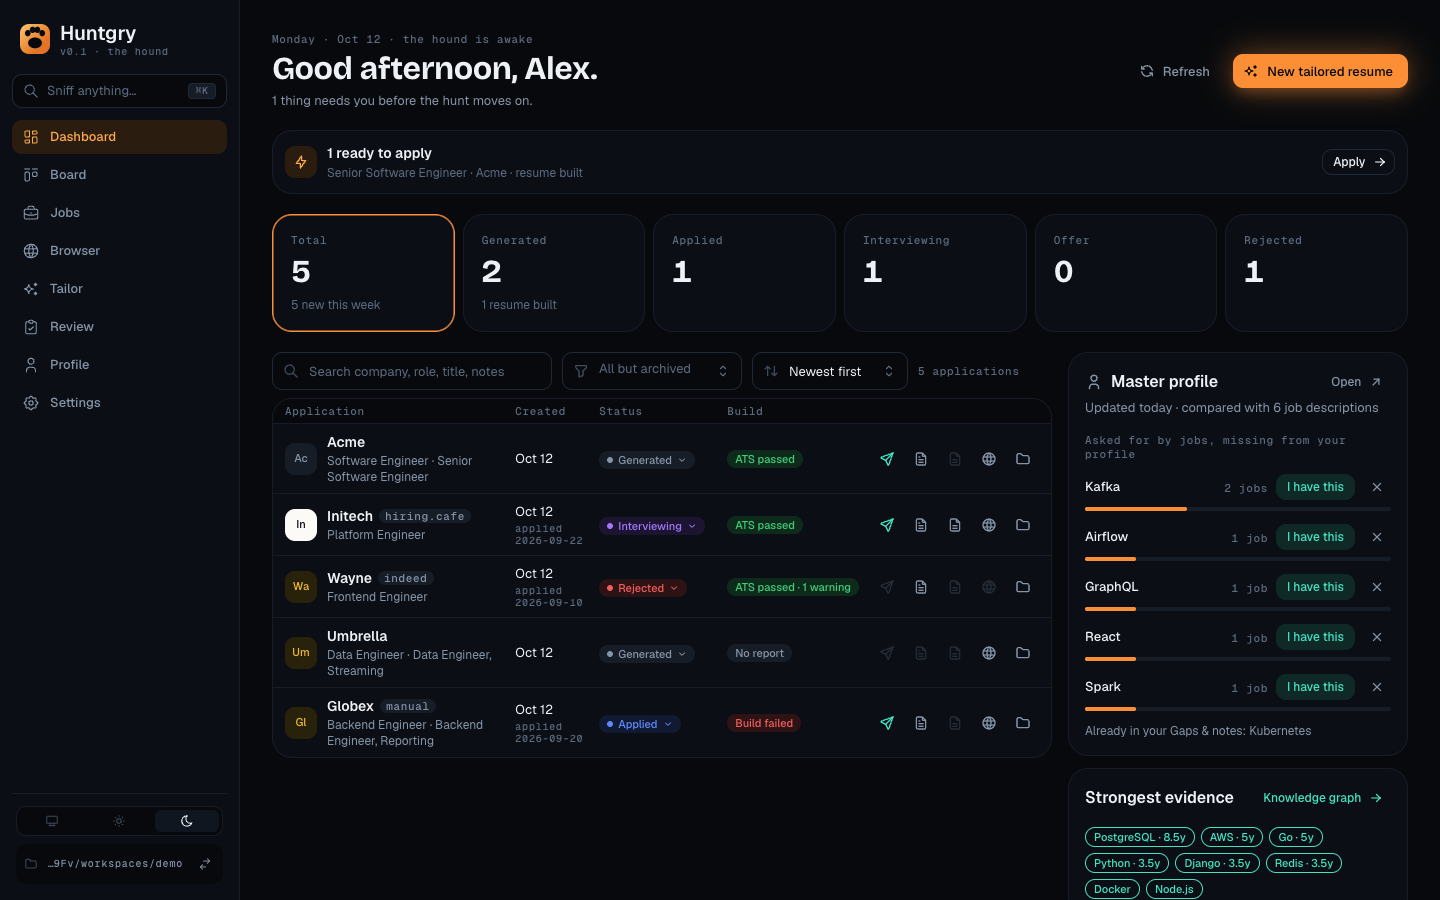
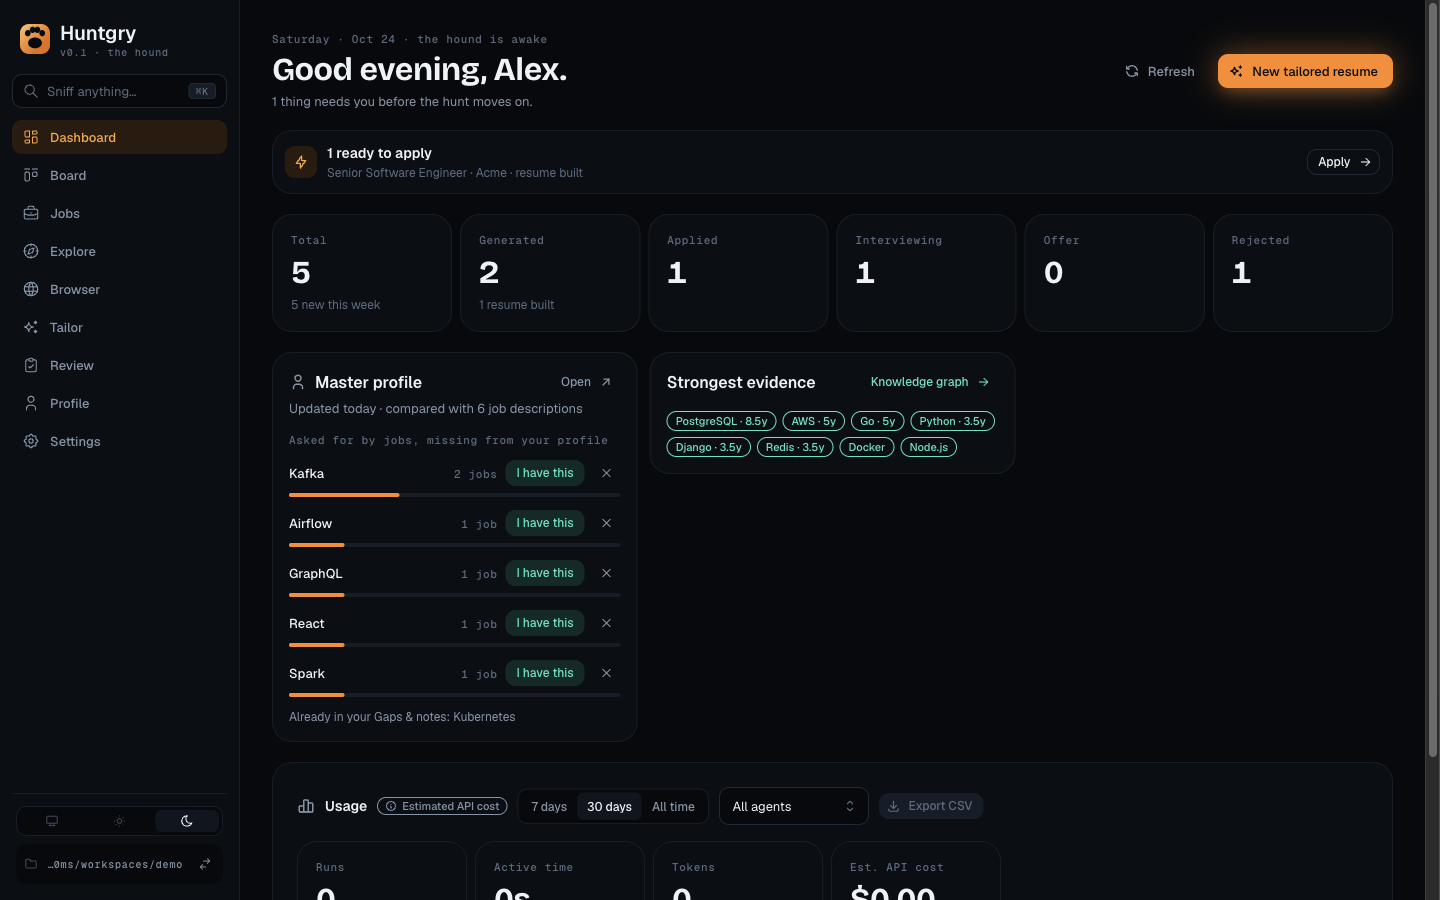
docs(board): describe the Board taking over from the Dashboard table
Adds docs/changes/161-board-replaces-dashboard-list.md: the inventory of
the table's features and where each lives now, a Mermaid map of those
places, the decisions (scroll to a column rather than hide the others, show
older archived cards from buildBoard, no sort), how to test and follow-ups,
with before/after screenshots. The README's Board, Browser, Applying and
Workspace sections, the e2e guide's page objects and the #9, #109 and #160
change notes now point at the Board; the README's Dashboard screenshot is
regenerated without the table.

Refs #161

diff --git a/docs/changes/161-board-replaces-dashboard-list.md b/docs/changes/161-board-replaces-dashboard-list.md
@@ -1,0 +1,139 @@
+# #161 — The Board takes over from the Dashboard's applications table
+
+Issue: [silentashish/huntgry#161](https://github.com/silentashish/huntgry/issues/161) · Epic #156 · Follows #160.
+
+## Context & problem
+
+The Dashboard (home page) listed every application in a table ("5 applications", or "68 of 78"
+in a busy workspace) with a search, a status filter, a sort and five icon actions per row. The
+Board (#85, #160) shows the same applications as cards, by stage, with its own search. That meant
+two places to browse applications, and the home page grew with every application. The Dashboard
+should be a summary: what needs the user, the counts, the last pipeline, usage and profile
+insights. The Board is where applications are browsed.
+
+Nothing the table did could be lost on the way, so the first step was an inventory.
+
+| Table feature | Where it lives now |
+| --- | --- |
+| Apply (send icon) | **Apply** on a Ready to apply card; **Apply in browser** in the application drawer |
+| Open resume.pdf / cover.pdf | **Resume** / **Cover letter** in the drawer (shown when the file exists) |
+| Open the posting | **Posting** in the drawer, which opens the in-app Browser |
+| Show in Finder | The folder button in the drawer |
+| Status dropdown | **Status** in the drawer; the card's **Move to** menu; dragging the card |
+| Build badge → build report, review state | Build and review pills on the card (detail on hover); the full build result, review state and **Open in Review** in the drawer |
+| Apply blocked, with the reason | No Apply on the card; the drawer's disabled **Apply in browser** gives the reason on hover |
+| Search (company, role, title, job id, notes) | The Board's search box (#160 already searched the same fields) |
+| Status filter | The Board's columns; a stat tile scrolls to its column |
+| Archived filter (every archived application) | **Show N older** in the Archived column (new) |
+| Sort (newest, oldest, company) | Not carried over: cards are ordered by their last change, in week groups (#160) |
+| Click a row → drawer | Click a card → the same `ApplicationDrawer` |
+
+Every action already existed in the drawer the Board opens (the Board has reused the Dashboard's
+drawer since #85). Three things were missing: archived applications older than a week (the Board drops
+them after 7 days, the table's Archived filter listed them all), a way for other pages to link
+into the Board, and somewhere for the stat tiles to go.
+
+| Before | After |
+| --- | --- |
+| ![Dashboard before: the stat tiles, then the applications table with search, status filter and sort](assets/161-dashboard-before.png) | ![Dashboard after: the stat tiles, then the profile and evidence cards and usage](assets/161-dashboard-after.png) |
+
+| A stat tile opens the Board on its column | The application drawer from a card |
+| --- | --- |
+| ![The Board after clicking Applied: the Applied column scrolled into view with an Ember ring](assets/161-board-applied-tile.png) | ![The application drawer with Apply in browser, Resume, Cover letter, Posting and Show in Finder](assets/161-board-drawer.png) |
+
+## What changed and why
+
+- **Dashboard** (`src/renderer/src/pages/dashboard/index.tsx`): the table, its toolbar (search,
+  status multi-select, sort, count) and the drawer are gone. The stat tiles stay and open the Board:
+  Applied, Interviewing, Offer and Rejected on their column, Generated on Ready to apply (what is
+  left to do with a generated result), Total on the whole Board. **Apply** in "Needs you" opens the
+  one ready result's drawer on the Board, or the Board's Ready to apply when there are several. The
+  last pipeline, profile insights and strongest evidence cards share one row under the tiles. The
+  "scan stopped early" warning stays on the Dashboard.
+- **Board links** (`navigation.ts`, `pages/board/index.tsx`): the `board` page takes
+  `{ column?, applicationId? }`. `applicationId` opens that application's drawer; `column` scrolls
+  the column into view and marks it with an Ember ring that fades (a steady ring with reduced
+  motion). The column's `<section>` carries `data-column` and `data-focus`.
+- **Archived** (`src/shared/board.ts`): `buildBoard` takes `keepArchived`. The Archived column's
+  note gets **Show N older** (and **Only the last 7 days** to go back), and Archived stays a full
+  column, not a rail, while it has older cards to offer.
+- **⌘K** (`components/palette/search.ts`): an application found in the palette opens in its drawer
+  on the Board (one waiting for review still opens on Review). It used to open the resume, or the
+  folder. The "applications" keyword finds the Board, no longer the Dashboard.
+- **KpiTile**: a clickable tile without `selected` is a plain button, not a toggle with
+  `aria-pressed`. The tiles are links now, not filters.
+- **Removed**: `ApplicationsTable.tsx` (and its `StatusMenu`), `filter.ts` and `filter.test.ts`,
+  and the table's CSS. `isReadyToApply` and `countByStatus` moved to `summary.ts`, which is all that
+  still used them; `readyToApply` keeps the newest-first order the table's filter gave it.
+- **Board cards** carry `data-kind` (`job`, `queue`, `application`) so tests can tell an
+  application from a saved job of the same company.
+
+## How it fits together
+
+Where each former table action lives now:
+
+```mermaid
+flowchart LR
+  subgraph Dashboard
+    T[Stat tiles] -->|column| B
+    N[Needs you: Apply] -->|one: applicationId / several: column ready| B
+  end
+  K[⌘K application] -->|applicationId| B
+  B[Board] --> S[Search box: company, role, title, job id, notes]
+  B --> AR[Archived: Show N older]
+  B --> C[Application card]
+  C --> P[Build and review pills]
+  C --> AP[Apply, on Ready to apply]
+  C --> M[Move to menu, drag: status]
+  C -->|click| D[Application drawer]
+  D --> D1[Apply in browser, or the reason it is blocked]
+  D --> D2[Resume / Cover letter PDFs]
+  D --> D3[Posting: in-app Browser]
+  D --> D4[Show in Finder]
+  D --> D5[Status dropdown, Applied on, notes, posting URL]
+  D --> D6[Build result, review state, Open in Review]
+```
+
+## Decisions and alternatives
+
+- **Scroll to the column, do not filter the others away.** "Open the Board filtered" could have
+  meant hiding every other column. The Board's columns already are the status filter; hiding the
+  rest would turn them into rails reading 0, which looks like data loss, and would need a filter
+  chip to undo. Scrolling to the column and marking it shows the same cards and keeps the context.
+  Total opens the whole Board, where this week's group is already open; "5 new this week" is
+  exactly what that shows.
+- **Show older archived cards in the column, not as a filter field.** `filterBoard` narrows the
+  cards a built board has, but cards older than a week are not on the board at all, so the switch
+  goes to `buildBoard` (`keepArchived`) and is page state next to the filter. It is not cleared by
+  the filter's **Clear**, as it is not a narrowing.
+- **No sort control.** The Board orders cards by their last change inside week groups (#160);
+  sorting by company would fight the grouping. Search covers finding a company.
+- **The drawer stays in `pages/dashboard/`.** Only the Board uses it now, but moving it with its
+  badges and its CSS would add a large rename to this change. Left as a follow-up.
+- **⌘K opens the drawer, not the resume.** An application's place is now its card; the resume is
+  one click away in the drawer, and the palette still offers "Open the resume" as an action.
+
+## How to test
+
+- Unit: `npx vitest run src/shared/board.test.ts src/renderer/src/pages/dashboard src/renderer/src/components/palette src/renderer/src/components/ui`.
+  `ApplicationDrawer.dom.test.tsx` covers each former row action in the drawer: Apply, resume and
+  cover letter, the posting, Show in Finder, the status dropdown, the build result, the review state
+  and Open in Review, and the missing-file case. `summary.test.ts` covers the tile → column map, the
+  Needs you link and the counts; `board.test.ts` covers `keepArchived`; `search.test.ts` the
+  palette's Board entries; `ui.test.tsx` the non-toggle tile.
+- e2e: `npm run build && npx playwright test -c e2e/playwright.config.ts e2e/tests/dashboard.spec.ts e2e/tests/board.spec.ts e2e/tests/shell.spec.ts e2e/tests/review-gate.spec.ts e2e/tests/apply.spec.ts e2e/tests/apply-answers.spec.ts e2e/tests/apply-ashby.spec.ts e2e/tests/apply-generated.spec.ts e2e/tests/apply-workday.spec.ts e2e/tests/insights.spec.ts`.
+  `dashboard.spec.ts` checks that no table, search, filter or sort is left, each tile's column and
+  Ready to apply → drawer. `board.spec.ts` has a new `applications on the board (#161)` block:
+  search by company, role, title and notes; resume, cover letter and folder (with `shell.openPath`
+  stubbed) and the posting; the status dropdown and its `appliedAt` stamp; build and review pills,
+  the Apply reason and Open in Review; the posting URL edit; and Show older in Archived. The apply
+  specs and review-gate start Apply from the Board's drawer; shell.spec opens an application from ⌘K.
+- By hand: on the Dashboard click **Applied**: the Board opens on Applied with a ring. Click
+  **Apply** in "Needs you": the drawer opens. In Archived, press **Show N older**.
+
+## Follow-ups
+
+- Move `ApplicationDrawer`, `BuildBadge`, `ReviewBadge` and their CSS from `pages/dashboard/` to
+  `pages/board/`.
+- The stat tiles could filter the Board by when cards changed ("5 new this week") if the column
+  scroll proves not enough.

diff --git a/docs/testing/e2e.md b/docs/testing/e2e.md
@@ -127,13 +127,14 @@ production yet"; the applications are
 | `frontend-engineer/wayne/wy-3` | rejected | no posting URL (Apply blocked); asks for React, GraphQL |
 
 so the insights card lists Kafka (2 jobs), Airflow, GraphQL, React and Spark, notes Kubernetes,
-and the graph overlay has five job nodes. The table on the Dashboard is ordered by file mtime,
-which a fresh copy does not fix: specs address rows by company, never by position.
+and the graph overlay has five job nodes. Board cards are ordered by when they last changed (file
+mtime for most), which a fresh copy does not fix: specs address applications by company or title,
+never by position.
 
 **Extending `demo`:** add a `<role>/<company>/<job-id>/` folder with at least one marker file
 (`job-description.md`, `resume_data.json`, `build-report.json`, `resume.pdf`, `cover_data.json`),
 write the text files by hand, and add a `write(...)` line to `generate.mts` for each binary
-(`applicationPdf`, `coverPdf`, `pagePreview`). Then update the README table: the dashboard,
+(`applicationPdf`, `coverPdf`, `pagePreview`). Then update the README table: the dashboard, board,
 graph and insights specs assert the counts and gaps it lists, so a new job description that
 mentions a technology from `src/shared/skills.ts` (`TECH_VOCABULARY`, which includes words like
 "on-call") changes the expected gap list. Run `node e2e/fixtures/generate.mts` and check
@@ -257,7 +258,7 @@ application's own `resume.pdf`. Company-site flows: `/greenhouse/redirect-compan
 800 ms after load (a token older than 30 s redirects to `/embed/job_board?error=true`);
 `/company/posting-popup` and `/company/posting-link` show only an "Apply now" link (new tab / same
 tab). `e2e/tests/apply-generated.spec.ts` covers Tailor → Apply on Greenhouse and Lever, the
-Dashboard and drawer entry points, the redirect + late embed, and both link cases; `clickLinkInTab` is how the test (never the
+Board drawer entry point, the redirect + late embed, and both link cases; `clickLinkInTab` is how the test (never the
 app) presses a site's own link, and `expectInTab` polls an expression in a tab.
 
 **The mock Workday** (`/workday/`, `scripts/mock-ats/workday.mjs`) is a client-rendered flow at one URL:
@@ -325,9 +326,8 @@ was needed; tabs in the strip are told apart from the "New tab" action by their 
 matching only the visible input, `entry(title)` for accordion headers, `unsavedBadge`,
 `savedBadge`, `leaveDialog`, `save()`), `Shell` (`SHELL_PAGES`, `navLink(page)`, `goTo(page)`,
 `expectActive(page)` (checks `aria-current="page"`, Mantine's `data-active` and the page
-heading), `currentEntries`, `switchWorkspaceButton`), `Dashboard` (`rows`, `row(company)`,
-`rowStatus`, `pickStatus(select, status)`, `statCard(label)`, `statusFilter`, `searchInput`,
-`open(company)` → the drawer, `tooltip(text)`, `expectCompanies([...])`), `InsightsCard`
+heading), `currentEntries`, `switchWorkspaceButton`), `Dashboard` (`statCard(label)`, `statValue(label)`,
+`needsYou`, `emptyState`; it lists no applications since #161), `InsightsCard`
 (`gap(skill)`, `haveThis(skill)` → the evidence modal, `notMe(skill)`, `dismissedToggle`,
 `emptyBadge(section)`, `openButton`), `GraphPage` (`showView('Graph' | 'Skills')`,
 `nodeLabels()` from the "Jump to…" list, `toggleJobsOverlay(on)`, `skillRow(skill)`,
@@ -343,12 +343,15 @@ for the PATH-isolation assertion), `JobsPage`, `BrowserPage` with `ApplyPanel` (
 servers" above), and `BoardPage` (#85: `column(id)` (a `region` named after the column), `cards(id)`,
 `card(title)` (an `article` named by its title), `expectIn(id, title)`, `titles(id)`,
 `moveTo(title, id)` / `moveTargets(title)` through the card's Move to menu, `drag(title, id)` for
-HTML5 drag and drop, `addLink(url)`). `board.spec.ts` seeds its own queue, review and archived
+HTML5 drag and drop, `addLink(url)`, and since #161 `application(company)` (searches the board for
+the company and opens folded weeks), `openApplication(company)` → the drawer once it has stopped
+sliding in, `applyFrom(company)`, `pick(select, value)`, `tooltip(text)`). `board.spec.ts` seeds its own queue, review and archived
 folders on top of `demo` and uses the mock server for the pasted link.
 
-The dashboard's search box, status filter and sort select carry `aria-label`s (`Search
-applications`, `Filter by status`, `Sort applications`) added for the tests, since a placeholder
-is not a stable name (the multi-select's disappears once a value is picked).
+The Board's search box and source filter carry `aria-label`s (`Search the board`, `Source`)
+for the tests, since a placeholder is not a stable name (the multi-select's disappears once a value
+is picked). Cards carry `data-kind` (`job`, `queue`, `application`), so an application is not
+confused with a saved job of the same company.
 
 Mantine details the page objects already handle, so a new spec does not rediscover them:
 Select and MultiSelect inputs are `role=combobox` and their options `role=option`, but the option

diff --git a/README.md b/README.md
@@ -10,7 +10,7 @@
 [![ci](https://github.com/silentashish/huntgry/actions/workflows/ci.yml/badge.svg)](https://github.com/silentashish/huntgry/actions/workflows/ci.yml)
 [![Buy me a coffee](https://img.shields.io/badge/Buy%20me%20a%20coffee-FFDD00?logo=buymeacoffee&logoColor=black)](https://buymeacoffee.com/silentashish)
 
-<img src="docs/assets/screenshots/dashboard.png" alt="Huntgry's Dashboard: applications with their status and build result, and the master profile's skill gaps" width="900">
+<img src="docs/assets/screenshots/dashboard.png" alt="Huntgry's Dashboard: what needs you, applications counted by status, and the master profile's skill gaps" width="900">
 
 </div>
 
@@ -188,8 +188,8 @@ unattended result to approve), **Ready to apply**, **Applied**, **Interviewing**
 **Tailor** on its card to queue it. The card then moves on by itself as the run goes. Drag a card
 to another column, or use its **Move to** menu, to change an application's status or to archive a
 job. Clicking a card opens its details. An archived card leaves the board 7 days after it was
-archived, but nothing is deleted: the Dashboard's *Archived* filter and the *Dismissed* jobs still
-list it. See [docs/changes/85-board.md](docs/changes/85-board.md).
+archived, but nothing is deleted: **Show older** in Archived brings every archived card back, and
+the *Dismissed* jobs on Jobs still list it. See [docs/changes/85-board.md](docs/changes/85-board.md).
 
 Inside a column, cards are grouped by the week they last changed: **This week** is open, older
 weeks are folded to a header with a count and open on click, showing one-line cards (hover or
@@ -197,6 +197,12 @@ focus one for the full card). The board remembers which weeks you opened or fold
 shrink to a narrow rail that still takes drops, and each column scrolls on its own. The search box
 and the source filter above the columns narrow every column at once. See
 [docs/changes/160-board-week-groups.md](docs/changes/160-board-week-groups.md).
+
+The Board is where applications are browsed: the Dashboard keeps a summary and its stat tiles open
+the Board on their column (**Generated** on Ready to apply). An application's drawer, opened from its
+card or from ⌘K, has everything the old Dashboard table had per row: **Apply in browser**, the
+resume and cover letter PDFs, the posting, **Show in Finder**, the status, the build result and the
+review state. See [docs/changes/161-board-replaces-dashboard-list.md](docs/changes/161-board-replaces-dashboard-list.md).
 
 ## Finding jobs
 
@@ -231,7 +237,7 @@ says so. See [docs/changes/148-jobright-summary-fallback.md](docs/changes/148-jo
 
 ## Browser
 
-**Open posting** (Jobs) and the posting links on the Dashboard open the job in the
+**Open posting** (Jobs) and **Posting** in an application's drawer (Board) open the job in the
 **Browser** page instead of your system browser: tabs, Back/Forward/Reload/Stop, an address
 bar (`jobs.example.com` is enough; there is no search engine) and **Open in browser** to
 hand the page to your system browser. Tabs stay open while you use the rest of the app and
@@ -248,7 +254,7 @@ e.g. `DOM.setFileInputFiles` for the resume upload), and unpacked extensions dro
 
 ## Applying
 
-**Apply** (the send icon on a Dashboard row, **Apply in browser** in the application drawer,
+**Apply** (on a Ready to apply card of the Board, **Apply in browser** in the application drawer,
 **Apply** on a finished Tailor run) opens the posting's application form in a new Browser
 tab, fills it from your master profile and attaches the tailored `resume.pdf` (and
 `cover.pdf` when the form has a cover-letter upload). **Huntgry never submits**: you review
@@ -388,9 +394,10 @@ Applications generated by the skill land in the workspace as:
 └── huntgry.json        # Huntgry's tracking: status, applied date, notes, posting URL, source
 ```
 
-The **Dashboard** lists them with their build result and links to the PDFs and the job
-posting, tracks each one (generated → applied → interviewing → offer / rejected /
-archived), previews the pages, and refreshes when folders change on disk.
+The **Board** shows them as cards with their build result; an application's drawer links to the
+PDFs and the job posting, tracks each one (generated → applied → interviewing → offer / rejected /
+archived) and previews the pages. The **Dashboard** counts them by status. Both refresh when
+folders change on disk.
 
 | Status | Meaning |
 | --- | --- |

diff --git a/docs/changes/109-redesign-dashboard.md b/docs/changes/109-redesign-dashboard.md
@@ -4,6 +4,8 @@ Issue: [silentashish/huntgry#109](https://github.com/silentashish/huntgry/issues
 (tokens, theme, shared parts) · Figma `zhNccc831dRnOhj2tmqqkc`: Dashboard `5:2`, Application drawer `16:2`, Evidence modal
 `16:735`, Empty (first hunt) `18:2`, and their App · Light twins.
 
+> Since #161 the applications table described below is gone: the Board lists applications and the stat tiles open it. See [161-board-replaces-dashboard-list.md](161-board-replaces-dashboard-list.md).
+
 ## What changed
 
 | Part | Files | Notes |

diff --git a/docs/changes/9-applications-dashboard.md b/docs/changes/9-applications-dashboard.md
@@ -2,6 +2,8 @@
 
 Issue: [silentashish/huntgry#9](https://github.com/silentashish/huntgry/issues/9) · Epic: #1 · Follows #7
 
+> Since #161 the Dashboard no longer lists applications: they are browsed on the Board, whose application drawer has every row action described here. See [161-board-replaces-dashboard-list.md](161-board-replaces-dashboard-list.md).
+
 ## Context & problem
 
 The diagram's **Custom Dashboard with all the generated resume + link to job board**.

diff --git a/docs/changes/160-board-week-groups.md b/docs/changes/160-board-week-groups.md
@@ -98,4 +98,6 @@ flowchart LR
 ## Follow-ups
 
 - #161: the Dashboard table goes; the Board takes over its search (done here), its Archived filter
-  (a `BoardFilter` field) and its per-row actions on the card or its drawer.
+  and its per-row actions on the card or its drawer. Done in
+  [161-board-replaces-dashboard-list.md](161-board-replaces-dashboard-list.md); the Archived filter
+  became `buildBoard`'s `keepArchived`, not a `BoardFilter` field.
